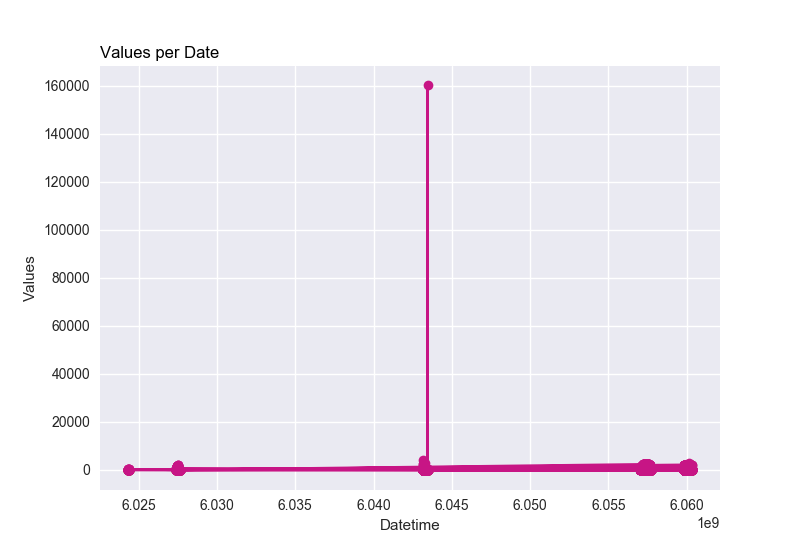
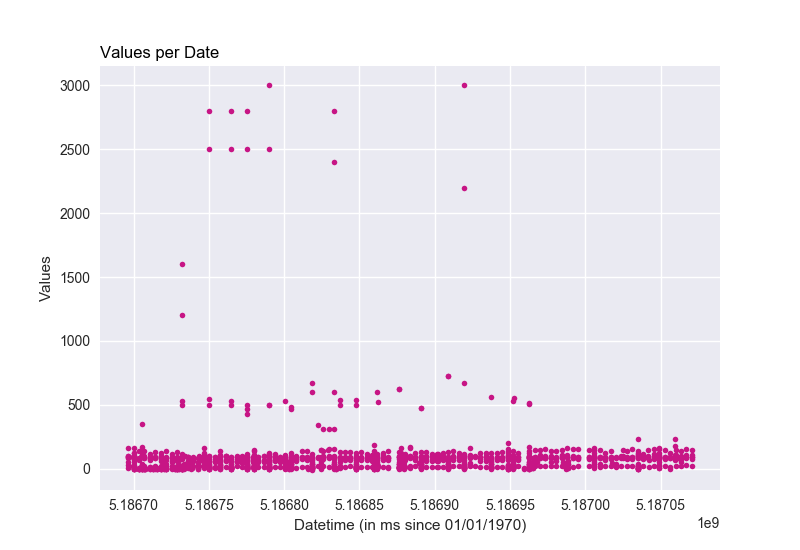
ScatterPlot instead of LinePlot

diff --git a/Projects/p2/src/extractors/ValuesPerTime.py b/Projects/p2/src/extractors/ValuesPerTime.py
@@ -43,8 +43,8 @@ def output_data(data_list, dataframe, output_folder, name):
         )
 
     plt.style.use('seaborn')
-    plt.plot('datetime', 'value', data=dataframe,
-             marker='o', color='mediumvioletred')
+    plt.plot('datetime', 'value', data=dataframe, marker='o',
+             markersize=4, color='mediumvioletred', linestyle='none')
 
     plt.title('Values per Date', loc='left',
               fontsize=12, fontweight=0, color='black')
